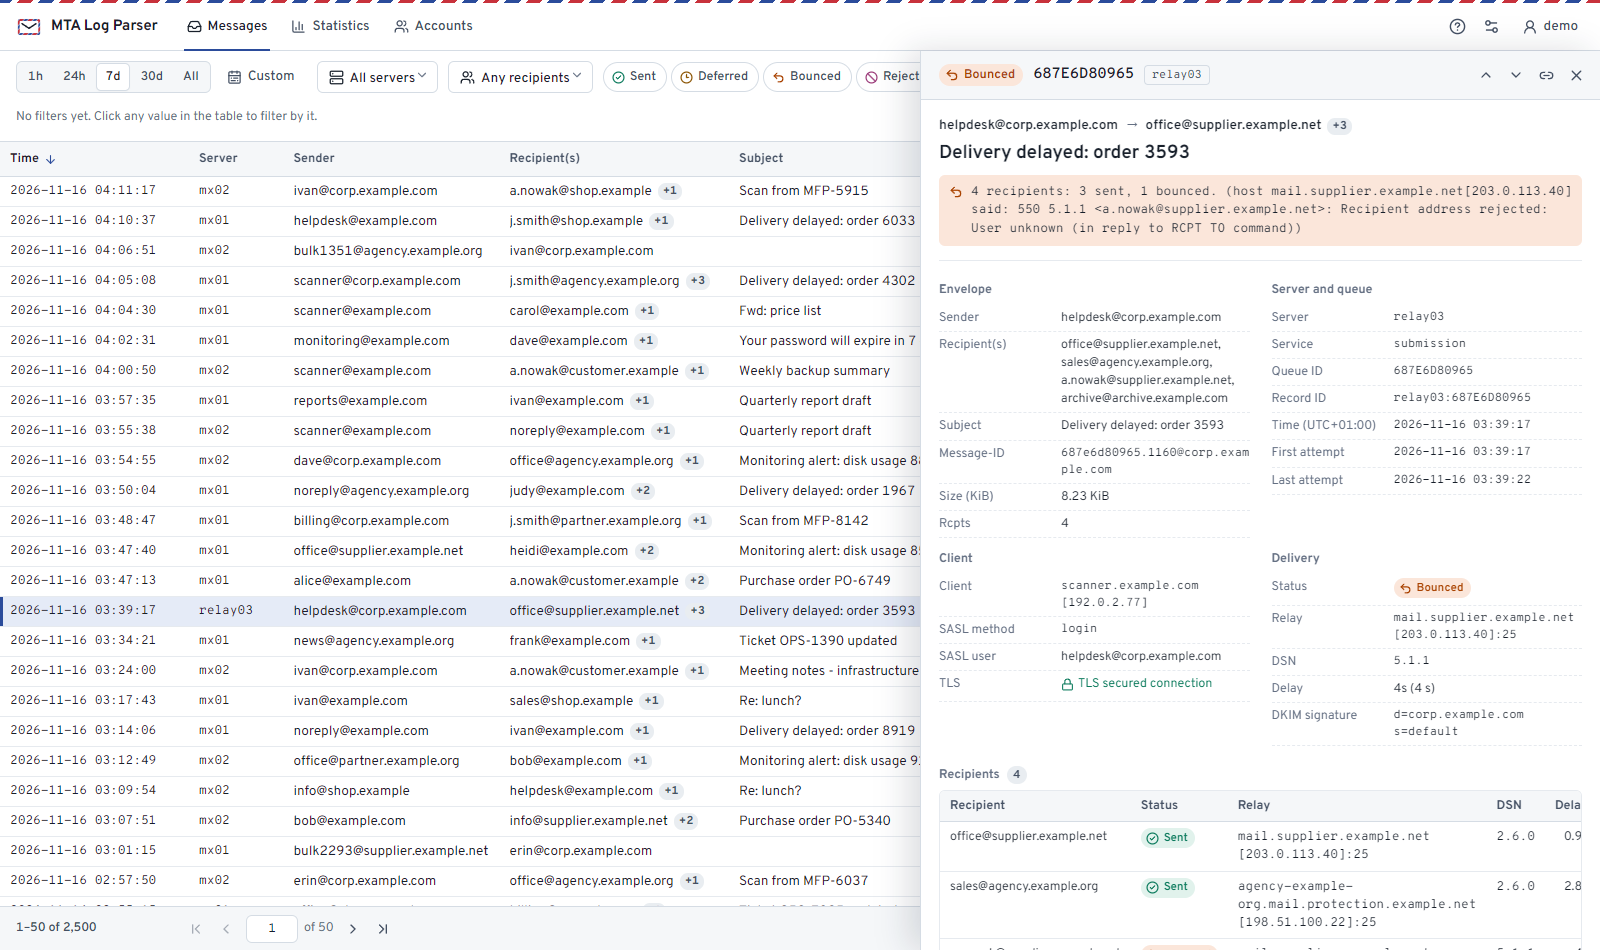
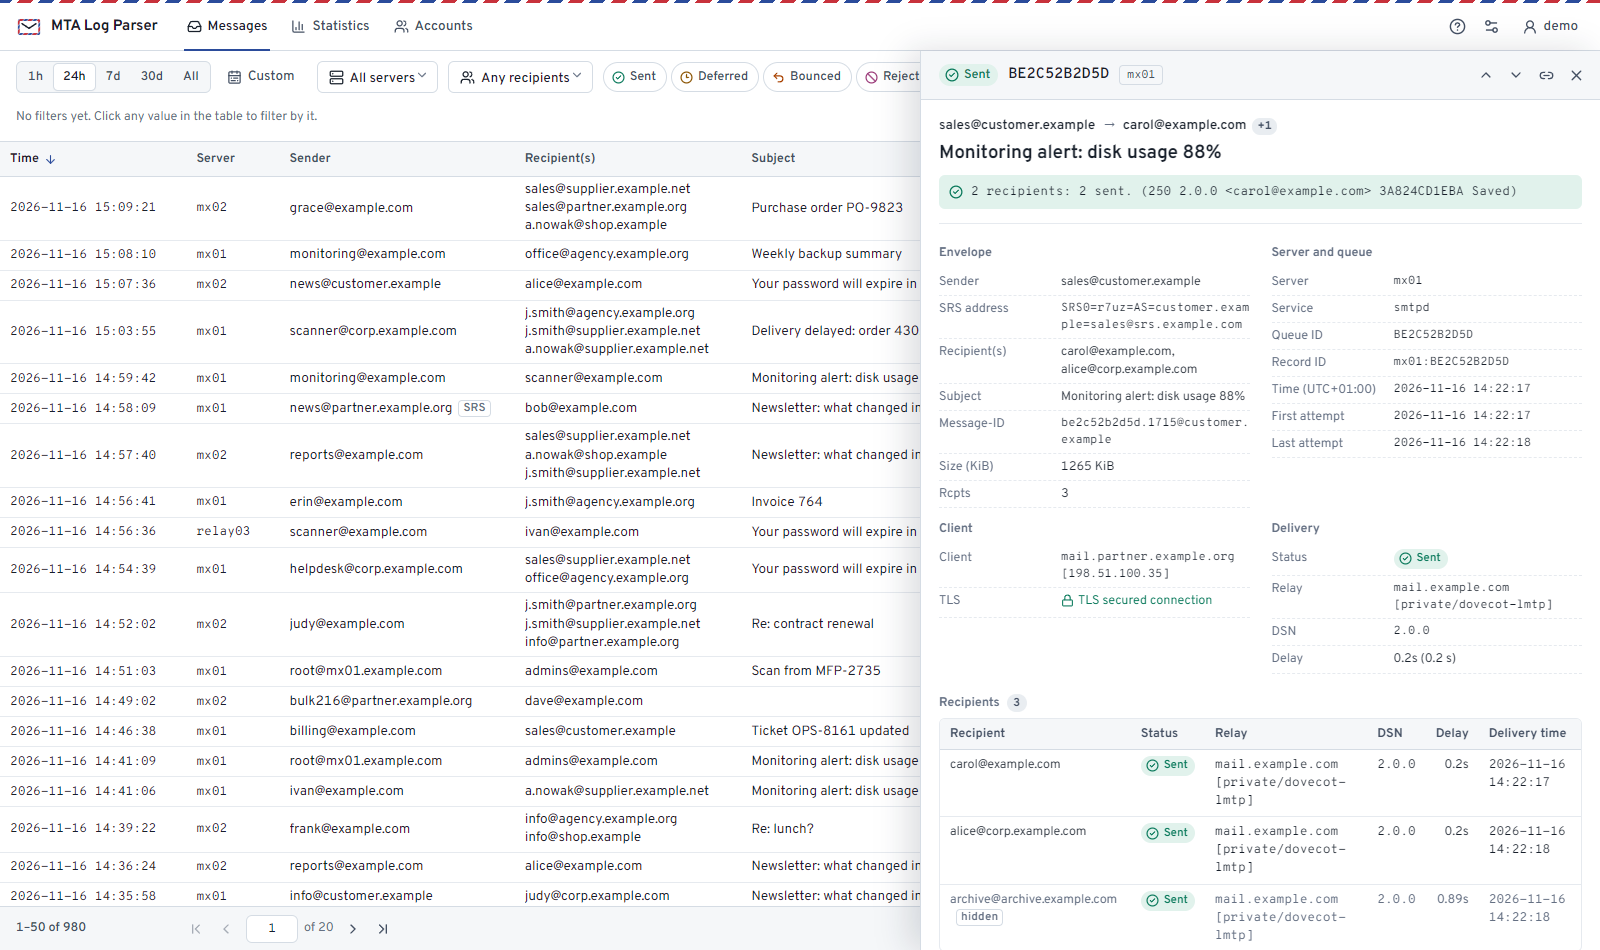
Version 2.1.0: docs, example.env, refreshed screenshots

diff --git a/README.md b/README.md
@@ -26,8 +26,15 @@ React. This is a fork of the abandoned [Privex postfix log parser](https://githu
 - **Honest status for multi-recipient mail.** A message gets the status of its worst delivery (bounced > rejected >
   deferred > sent) instead of the old catch-all `multiple` — on servers that add an archive copy to every message
   the old status hid failed deliveries. `LEGACY_MULTIPLE_STATUS=true` restores the 1.x behaviour.
+- **Hidden recipients** (2.1): `HIDDEN_RECIPIENTS=backup@archive.local` (addresses or patterns such as
+  `*@archive.local`) keeps an archive / `always_bcc` copy out of the recipient list, status and relay. The copy is
+  still shown, marked *hidden*, in the message details, and a failed archive delivery is noted in the status message.
+- **Original sender of forwarded mail** (2.1): SRS-rewritten envelope senders (postsrsd,
+  `SRS0=HHH=TT=example.com=john@srs.example.net`) are shown as `john@example.com` with an *SRS* tag; filtering by
+  sender matches both addresses (`DECODE_SRS=false` turns it off).
 - **New web UI:** choose, reorder and resize columns; filter any column (contains / does not contain / is exactly),
-  click any value to filter by it; status chips, server picker, time presets; message drawer with all metadata,
+  click any value to filter by it; every recipient and relay of a message listed right in the table (or the first
+  one and +N, see Settings); status chips, server picker, time presets; message drawer with all metadata,
   the recipients table and the raw log lines; statistics per server, top senders / recipients / relays and a
   timeline; dark and light themes; English, Polish and Russian.
 - **Excel export** of the visible columns — current page or all matching rows — with an optional second sheet
@@ -52,7 +59,7 @@ filter in the API (`/api/emails?<field>=text`, `<field>__not=text`, `<field>__eq
 | Time, first / last attempt | `timestamp`, `first_attempt`, `last_attempt` | `2026-10-26 06:28:47` |
 | Server | `host` | `mx01` |
 | Queue ID | `queue_id` | `25CF61E7BCF` |
-| Sender, recipient(s) | `mail_from`, `mail_to` | `dms@example.com` |
+| Sender, recipient(s) | `mail_from`, `mail_to` | `dms@example.com` (SRS senders decoded, the SRS address is in `srs_from`) |
 | Subject, Message-ID, size | `subject`, `message_id`, `size` | needs `header_checks` with `WARN` for the subject |
 | Status, status message | `status.code`, `status.message` | `sent`, `deferred`, `bounced`, `reject`, `unknown` |
 | Relay | `relay` | `example-com.mail.protection.outlook.com [52.101.91.156]:25` |
@@ -105,6 +112,9 @@ Docker notes:
 - **One file per server**, e.g. collected into `/var/log/mail/<server>/mail.log`:
   `MAIL_LOG_PATH=/var/log/mail` and `MAIL_LOG_FILENAME=*/mail.log`.
 - **Logs without a syslog header** (e.g. exim `mainlog`): set `MAIL_HOST_NAME` to the server's name.
+- **An archive copy on every message** (`always_bcc`, LMTP to an archive mailbox): list the address in
+  `HIDDEN_RECIPIENTS`. The setting is applied when messages are imported, so messages already stored change only if
+  their lines are imported again.
 - Include the previous rotated file so messages that span a rotation stay complete:
   `MAIL_LOG_FILENAME=mail.log,mail.log.1`.
 
@@ -119,7 +129,7 @@ Docker notes:
    now have at least 8 characters for new accounts.
 4. The old web UI (`/emails`, `/auth`, form logins) is gone; bookmarks to `/emails?...` open the new UI.
 5. New settings — all optional — are documented in [example.env](example.env): `MAIL_HOST_NAME`,
-   `LEGACY_MULTIPLE_STATUS`, `IMPORT_BATCH_SIZE`, `LOCK_FILE`, `SESSION_COOKIE_SECURE`, `SESSION_LIFETIME_HOURS`,
+   `LEGACY_MULTIPLE_STATUS`, `HIDDEN_RECIPIENTS`, `DECODE_SRS`, `IMPORT_BATCH_SIZE`, `LOCK_FILE`, `SESSION_COOKIE_SECURE`, `SESSION_LIFETIME_HOURS`,
    `LOGIN_MAX_FAILURES*`, `RETHINK_USER`/`RETHINK_PASSWORD`, `QUERY_TIMEOUT`, `LDAP_TIMEOUT`, `MAIL_LOG_GID`.
 
 ## Security

diff --git a/docs/DESIGN-v2.md b/docs/DESIGN-v2.md
@@ -28,10 +28,11 @@ Existing fields stay (old UI-independent consumers and stats code rely on them).
 | `queue_id` | str | MTA queue id |
 | `host` | str | **new**. Mail server that wrote the line: the syslog hostname field (`filterek08`). Fallback: env `MAIL_HOST_NAME`, else `""`. Indexed. |
 | `timestamp`, `first_attempt`, `last_attempt` | time | RethinkDB time, UTC. The offset in the log line (e.g. `+02:00`) must be honoured; `LOG_TIMEZONE` applies only when the line has no offset. |
-| `mail_from` | str | |
+| `mail_from` | str | **changed** (`DECODE_SRS=true`, default): an SRS-rewritten envelope sender (`SRS0=HHH=TT=example.com=john@srs.forwarder.net`, also SRS1) is stored decoded (`john@example.com`). |
+| `srs_from` | str | **new**. The SRS address `mail_from` was decoded from; absent otherwise. The `mail_from` filter matches both. |
 | `mail_to` | str | legacy: single address, or JSON-encoded list (strings or `{mail_to, mail_to_alias}`) when status is `multiple`. Keep as is. |
 | `mail_to_alias` | dict | legacy |
-| `recipients` | list | **new**. One entry per recipient, latest delivery attempt wins: `{to, orig_to, status: {code, message}, relay: {host, ip, port}, dsn, delay, delays, timestamp}` |
+| `recipients` | list | **new**. One entry per recipient, latest delivery attempt wins: `{to, orig_to, status: {code, message}, relay: {host, ip, port}, dsn, delay, delays, timestamp, hidden}`. `hidden: true` marks recipients matching `HIDDEN_RECIPIENTS` (addresses or shell patterns, e.g. an `always_bcc` archive copy): they are left out of `mail_to`, `multiple`, `status` and `relay` unless the message has no other recipient; a failed hidden delivery is appended to `status.message` as `[hidden recipient <addr>: <code>]`. |
 | `subject`, `size` (KiB), `message_id` | | |
 | `status` | `{code, message}` | code ∈ `sent, reject, deferred, bounced, multiple, unknown`. **Changed**: when `recipients` exist the code is the *worst* recipient delivery (bounced > reject > deferred > sent) and the message starts with `N recipients: …`; `multiple` only appears on legacy documents or with `LEGACY_MULTIPLE_STATUS=true`. |
 | `multiple` | bool | **new**. More than one distinct recipient. |

diff --git a/CHANGES.md b/CHANGES.md
@@ -12,6 +12,11 @@ Unreleased VER.
 - provide variables in .env for user defined parser regexps override
 - parse log file from the new lines since last parsing
 
+Ver. 2.1.0
+- ~~NEW: `HIDDEN_RECIPIENTS` - recipients added to every message (archive / always_bcc copy) are left out of the recipient list, status and relay; failed hidden deliveries are noted in the status message~~
+- ~~NEW: SRS-rewritten senders (`SRS0=`/`SRS1=`) are shown as the original sender, the SRS address is kept in `srs_from` (`DECODE_SRS`)~~
+- ~~GUI: every recipient and relay listed in the table cell instead of the first one and +N (setting "Show all recipients and relays")~~
+
 Ver. 2.0.0
 - ~~NEW: server (`host`) of every message from the syslog header; message ID is now `<server>:<queue_id>`; several log files / globs / .gz in `MAIL_LOG_FILENAME`; `MAIL_HOST_NAME` fallback ([issue #30](https://github.com/drlight17/mta-log-parser/issues/30))~~
 - ~~NEW: postfix fields `client`, `sasl_method`, `sasl_username`, `service`, `dsn`, `delay`, `delays`, `nrcpt`, `dkim`, `tls`, `multiple` and per recipient `recipients[]` (to, orig_to, status, relay, dsn, delay, time); relay parsing for `relay=none` and LMTP~~
